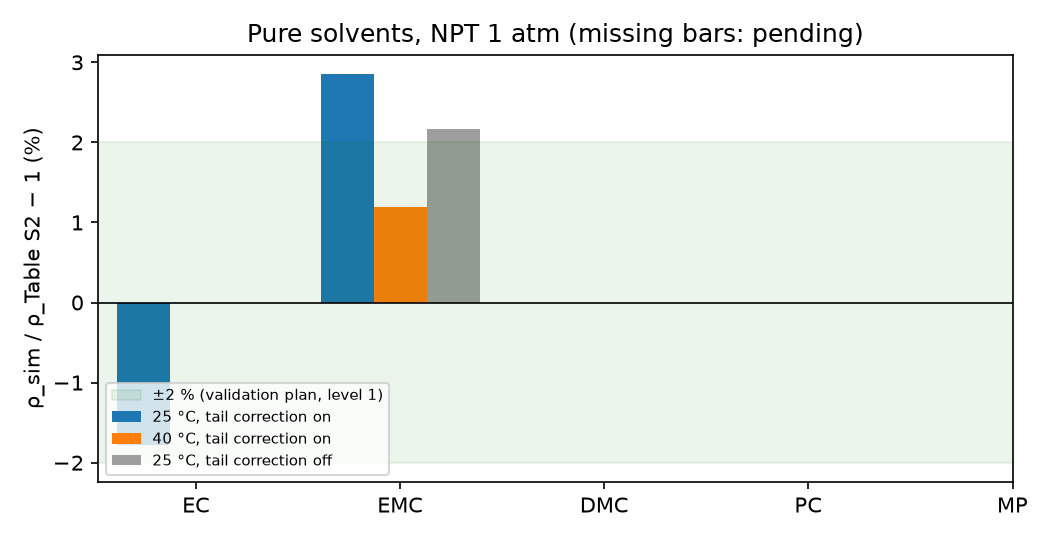
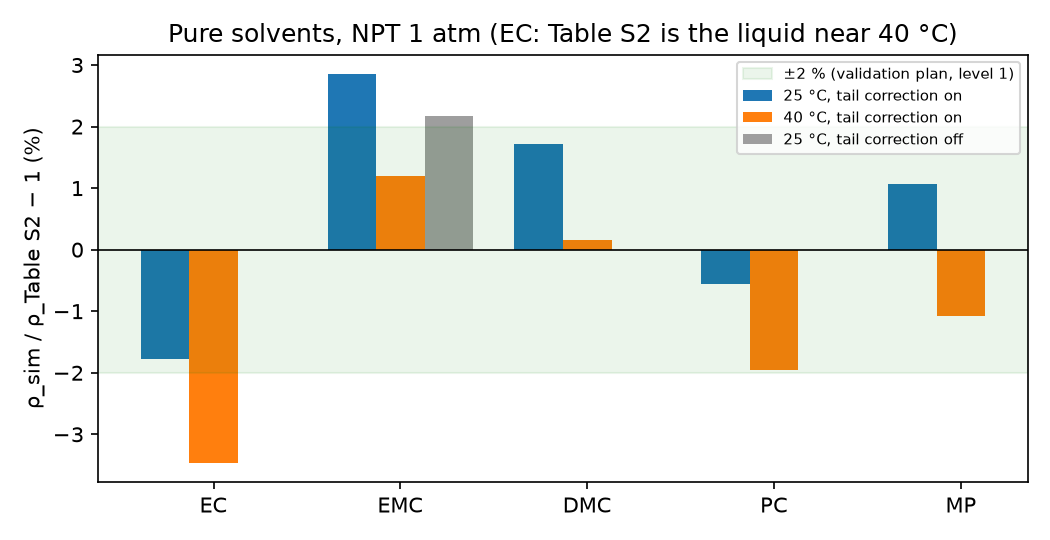
research: all ten pure-solvent densities (A1); EC fails at 40 °C
DMC, PC and MP are within 2 % of Lehnert SI Table S2; EMC (+2.9 % at 25 °C)
and EC (-3.5 % at 40 °C, where Table S2's liquid value applies) fail. Linear
carbonates too dense, cyclic ones too light: a parameter problem, since the
GROMACS OPLS-AA types reproduce EC at 39 °C (Caleman 2012).

diff --git a/docs/research/report/figures.py b/docs/research/report/figures.py
@@ -96,8 +96,8 @@ ax.axhline(0, color="k", lw=0.8)
 ax.axhspan(-2, 2, color="green", alpha=0.08, label="±2 % (validation plan, level 1)")
 ax.set_xticks(x, [n.upper() for n in names])
 ax.set_ylabel("ρ_sim / ρ_Table S2 − 1 (%)")
-ax.set_title("Pure solvents, NPT 1 atm (missing bars: pending)")
-ax.legend(fontsize=7, loc="lower left")
+ax.set_title("Pure solvents, NPT 1 atm (EC: Table S2 is the liquid near 40 °C)")
+ax.legend(fontsize=7, loc="upper right")
 fig.tight_layout()
 FIG.mkdir(exist_ok=True)
 fig.savefig(FIG / "fig2_solvent_densities.png", dpi=150)

diff --git a/docs/research/report/report.md b/docs/research/report/report.md
@@ -1,6 +1,6 @@
 # A verified open MD engine for Li-ion battery electrolytes, and what an open OPLS-AA model does and does not reproduce
 
-*Working draft, 2026-11-19. Results marked **pending** follow from runs in progress. Numbers come
+*Working draft, 2026-11-20. Results marked **pending** follow from runs in progress. Numbers come
 from `data.json` (written by `figures.py` from the study data) and from the validation reports
 cited. Not peer reviewed.*
 
@@ -20,7 +20,7 @@ cited. Not peer reviewed.*
   - the GPU backend reproduces the CPU trajectory from an identical state;
   - mixed and double precision are statistically indistinguishable.
 - **The open force field (LigParGen OPLS-AA for the solvents) fails in a characteristic way:**
-  - pure EMC is 2.9 % too dense, EC about 2 % too light;
+  - pure EMC is 2.9 % too dense and EC 3.5 % too light; DMC, PC and MP lie within 2 %;
   - the 1 M EC:EMC electrolyte comes out 1.4 % lighter than with Lehnert's model;
   - the Li⁺ first shell excludes EC almost completely. We trace this to an asymmetry of the
     fitted carbonyl charges.
@@ -117,26 +117,67 @@ what the present model gets right and wrong.
 - GPU, double precision: 34 ns/day;
 - GPU, mixed precision: about 55 ns/day.
 
-### 3.2 Pure solvents: EMC too dense, EC too light
+### 3.2 Pure solvents: linear carbonates too dense, EC too light
 
 ![Pure-solvent densities](figures/fig2_solvent_densities.png)
 
-| solvent | T | ρ_sim (g/cm³), tail correction on | Table S2 | deviation |
-|---|---|---|---|---|
-| EMC | 25 °C | 1.0347 ± 0.0003 | 1.006 | **+2.9 %** |
-| EMC | 40 °C | 1.0180 ± 0.0008 | 1.006 (25 °C) | – |
-| EC (supercooled) | 25 °C | 1.2975 ± 0.0003 | 1.321 (liquid) | **−1.8 %** (more at equal T) |
-| EC | 40 °C | pending | 1.321 | – |
-| DMC, PC, MP | 25/40 °C | pending | 1.069, 1.204, 0.915 | – |
+NPT at 1 atm, 0.5 ns, tail correction on, mean over the second half with block errors.
+Deviations are from Lehnert SI Table S2.
 
+| solvent | ρ_sim 25 °C (g/cm³) | ρ_sim 40 °C (g/cm³) | Table S2 | deviation 25 °C | deviation 40 °C |
+|---|---|---|---|---|---|
+| EC | 1.2975 ± 0.0003 (supercooled) | 1.2753 ± 0.0011 | 1.321 | −1.8 % | **−3.5 %** |
+| PC | 1.1972 ± 0.0011 | 1.1804 ± 0.0007 | 1.204 | −0.6 % | −2.0 % |
+| DMC | 1.0873 ± 0.0003 | 1.0708 ± 0.0014 | 1.069 | +1.7 % | +0.2 % |
+| EMC | 1.0347 ± 0.0003 | 1.0180 ± 0.0008 | 1.006 | **+2.9 %** | +1.2 % |
+| MP | 0.9248 ± 0.0013 | 0.9052 ± 0.0007 | 0.915 | +1.1 % | −1.1 % |
+
+**Which temperature Table S2 refers to.**
+- Table S2 does not state a temperature. Manufacturer data are usually given at 20–25 °C.
+- **The EC value is different:**
+  - EC melts at 36 °C, so 1.321 g/cm³ must be a liquid density;
+  - it matches the experimental density at 39 °C, 1.3214 g/cm³ (DIPPR, compiled in the
+    Caleman et al. 2012 SI);
+  - so the like-for-like comparison for EC is at 40 °C. A 1 K offset changes ρ by about 0.1 %.
+- With that reading, at the temperature that applies:
+  - DMC (+1.7 %), PC (−0.6 %) and MP (+1.1 %) pass the ±2 % criterion;
+  - **EMC (+2.9 %) and EC (−3.5 %) fail it.**
+
+**Pattern.**
+- The linear carbonates are too dense: EMC +2.9 %, DMC +1.7 %.
+- The cyclic ones are too light: EC −3.5 %, PC −0.6 %.
+- Opposite signs within one parameter source point to the parameters of individual molecules,
+  not to a common convention or to the engine. The engine reproduces OpenMM densities within
+  one standard error (§3.1).
+- **The functional form is not the problem:**
+  - the OPLS-AA atom types distributed with GROMACS reproduce EC at 39 °C to 0.05 %:
+    1.3207 against 1.3214 g/cm³ (Caleman 2012; candidate 2 in
+    [forcefield-survey.md](../forcefield-survey.md));
+  - a different parameter set in the same functional form does what ours does not.
+
+**Thermal expansion.** The simulated α = −d ln ρ/dT between 25 and 40 °C:
+
+| solvent | α (10⁻³ K⁻¹) |
+|---|---|
+| EC | 1.15 |
+| EMC | 1.09 |
+| DMC | 1.02 |
+| PC | 0.94 |
+| MP | 1.43 |
+
+There is no cited experimental α yet, so these values are recorded, not judged (A8).
+
+**Checks.**
 - Without the tail correction, EMC is 1.0278 g/cm³ (+2.2 %). The correction adds the dispersion
   attraction beyond the cutoff and raises the density, as expected.
 - The pressure test at fixed density agrees: pure EMC held at 1.006 g/cm³ shows
   −435 ± 21 bar (tail correction off; Figure 1).
-- **The errors have opposite signs** for the cyclic carbonate (too light) and the linear one (too
-  dense). That points to the parameters of individual molecules rather than to a common
-  convention. Whether LJ parameters or charges are responsible is open; A5 (ΔH_vap) and B3 decide
-  it.
+- The mean pressure of the NPT runs is within 2σ of the 1 atm target in 9 of 10 runs.
+  - MP at 40 °C reads 21 ± 7 bar.
+  - At a compressibility of order 10⁻⁴ bar⁻¹, 20 bar shifts ρ by about 0.2 %, which is small
+    against the deviations above.
+  - The block errors of a 0.25 ns window probably understate the pressure noise.
+- **Whether LJ parameters or charges cause the errors is open.** A5 (ΔH_vap) and B3 decide it.
 
 ### 3.3 The electrolyte: density settles fast, structure slowly
 
@@ -225,7 +266,8 @@ Calculation A4 (Li⁺ in pure EC and pure EMC) will test this directly.
 - the electrolyte density, within 1.4 % of Lehnert's model, but for partly cancelling reasons.
 
 **Not reproduced, with a probable cause:**
-- pure-solvent densities to 2 %: EMC +2.9 %, EC −1.8 % or more;
+- pure-solvent densities to 2 % for EMC (+2.9 %) and EC (−3.5 % at 40 °C); DMC, PC and MP pass.
+  A published OPLS-AA set reproduces EC, so the parameters are at fault, not the functional form;
 - the Li⁺ shell composition (EC excluded), plausibly from the carbonyl charge asymmetry.
 
 **Not yet tested (pending or needing tools):** the plan's table lists each with its ID.
@@ -276,5 +318,7 @@ status:
 - K. D. Fong et al., Macromolecules 53, 9503 (2020).
 - L. S. Dodda et al., Nucleic Acids Res. 45, W331 (2017); J. Phys. Chem. B 121, 3864 (2017)
   (LigParGen).
+- C. Caleman et al., J. Chem. Theory Comput. 8, 61 (2012), and SI (experimental ρ, ΔH_vap, ε compiled
+  from DIPPR, CRC and others; OPLS-AA results).
 - K. P. Jensen, W. L. Jorgensen, J. Chem. Theory Comput. 2, 1499 (2006).
 - J. N. Canongia Lopes, A. A. H. Pádua, J. Phys. Chem. B 108, 16893 (2004).

diff --git a/docs/research/calculation-plan.md b/docs/research/calculation-plan.md
@@ -16,7 +16,7 @@
 
 | ID | Calculation | Tests | Cost | Status |
 |---|---|---|---|---|
-| A1 | Pure EC, EMC, DMC, PC, MP: NPT 1 atm, 25 and 40 °C, 0.5 ns, tail correction on | density against Lehnert SI Table S2 (±2 %) | 10 × 0.2 h | ⏳ 3/10 done; EC 40 °C, DMC, PC, MP queued |
+| A1 | Pure EC, EMC, DMC, PC, MP: NPT 1 atm, 25 and 40 °C, 0.5 ns, tail correction on | density against Lehnert SI Table S2 (±2 %) | 10 × 0.2 h | ✅ 10/10: DMC, PC, MP within 2 %; EMC +2.9 %, EC −3.5 % (at 40 °C) fail (report §3.2) |
 | A2 | 1 M EC:EMC, NPT 1 atm, 20 °C, 3 ns (GPU) plus 0.6 ns (CPU twin) | electrolyte density against Lehnert's model; equilibration time; backend agreement | GPU 1.3 h; CPU twin about 14 h | ✅ ρ = 1.1850 ± 0.0008 g/cm³ (−1.4 %); shell 1.5–3 ns in report §3.4 |
 | A3 | Transport pilot: A2's end state, 20 ns NVT at 20 °C | whole transport chain on real data; noise of L₊₋; κ, t₊, D with the current model | about 9 h at 55 ns/day | ⏳ queued tonight |
 | A4 | Li⁺ preference: one Li⁺PF₆⁻ pair in pure EC and in pure EMC, plus 1 Li⁺ in EC:EMC 1:1 (dilute), 5 ns each | which carbonyl Li⁺ binds, without salt crowding; isolates the charge effect | 3 × ≤ 2.5 h | ⬜ prepared: `studies/2026-11-20_li-preference` (one pair in EC, EMC, EC:EMC 1:1), queued after the pilot |
